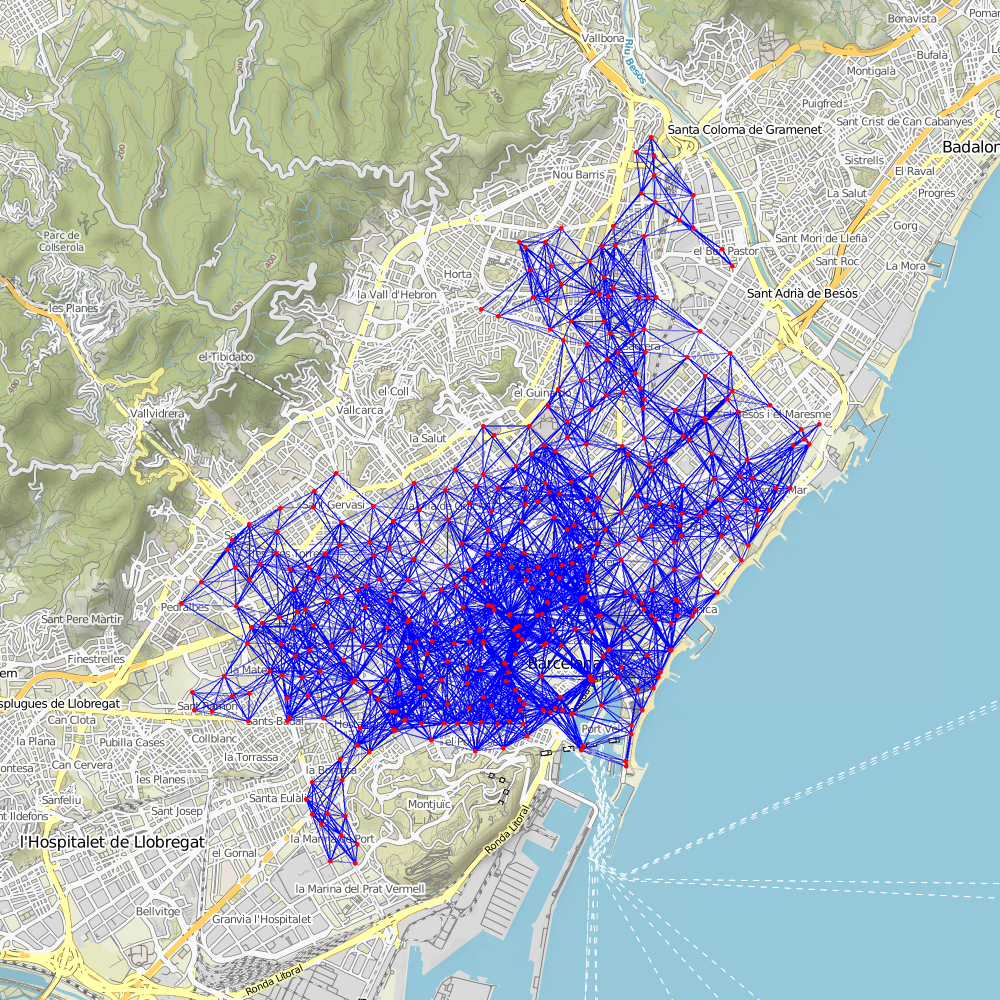
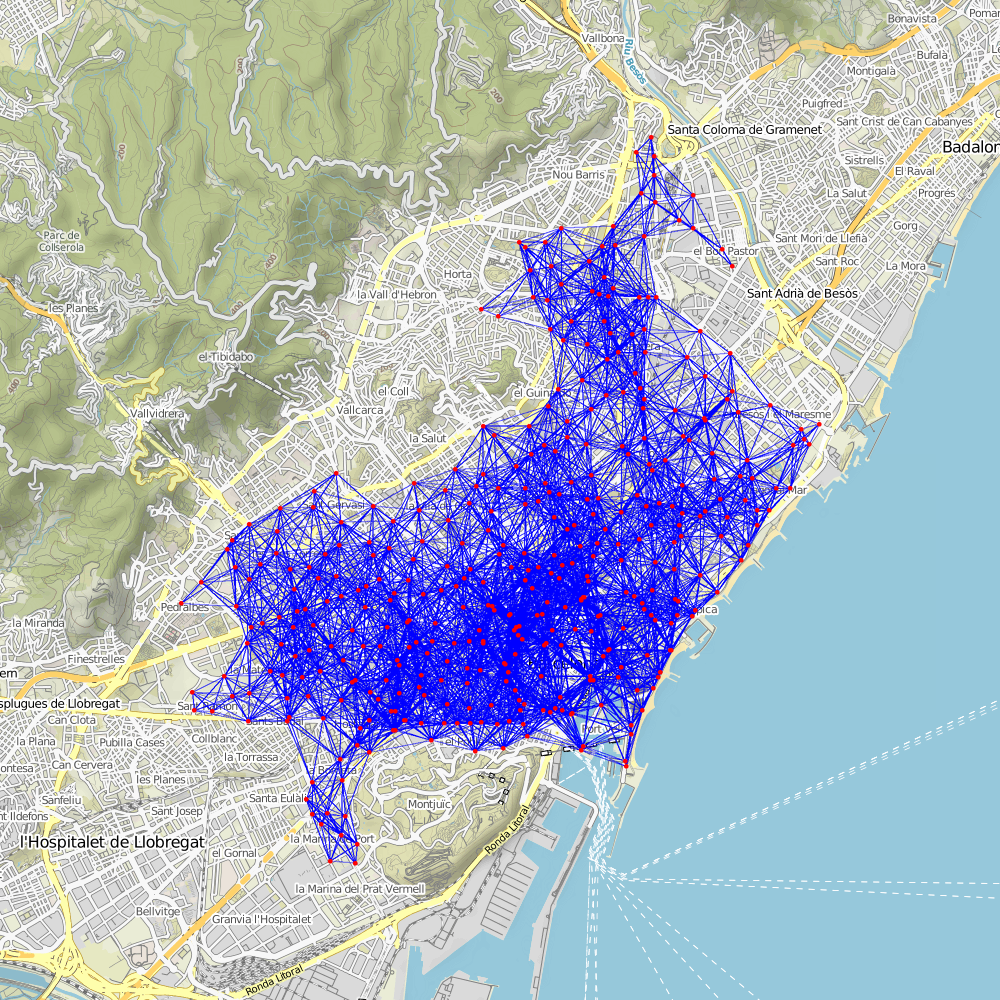
Arreglat error 546789 nodes

Changed region(s): [[0.186, 0.155, 0.806, 0.837], [0.0, 0.589, 0.124, 0.651], [0.217, 0.961, 0.279, 0.992]]

diff --git a/tests.py b/tests.py
@@ -1,8 +1,7 @@
 from data import *
 
-d = 500
+d = 1000
 G, bicing, info = build_graph(d)
-print (bicing)
 
 #No creus que podríem evitar fer la bbox cada cop?
 #En plan podríem fer la funció get_nodes fora de build graph (així només la faíem un cop)
@@ -11,8 +10,8 @@ print (bicing)
 image = plot_graph(G)
 image.save('map.png')
 
-#print(number_of_nodes(G))
-#print(number_of_edges(G))
+print(number_of_nodes(G))
+print(number_of_edges(G))
 #print(number_of_connected_components(G))
 image2 = plot_route('Rambla del Raval 13, Provença 501', G, d, info)
 image2.save('route.png')

diff --git a/data.py b/data.py
@@ -106,7 +106,7 @@ Changes the
 '''
 def check_edge (G, d, node, nodes_per_square, n_square, velocity):
     for n_node in nodes_per_square[n_square]:
-        distance = haversine(node[1]['pos'],n_node[1]['pos'])
+        distance = haversine(node[1]['pos'],n_node[1]['pos'], unit='m')
         if (distance < d and n_node != node): #<=?
             G.add_edge(node[0], n_node[0], time=distance/velocity)
 
